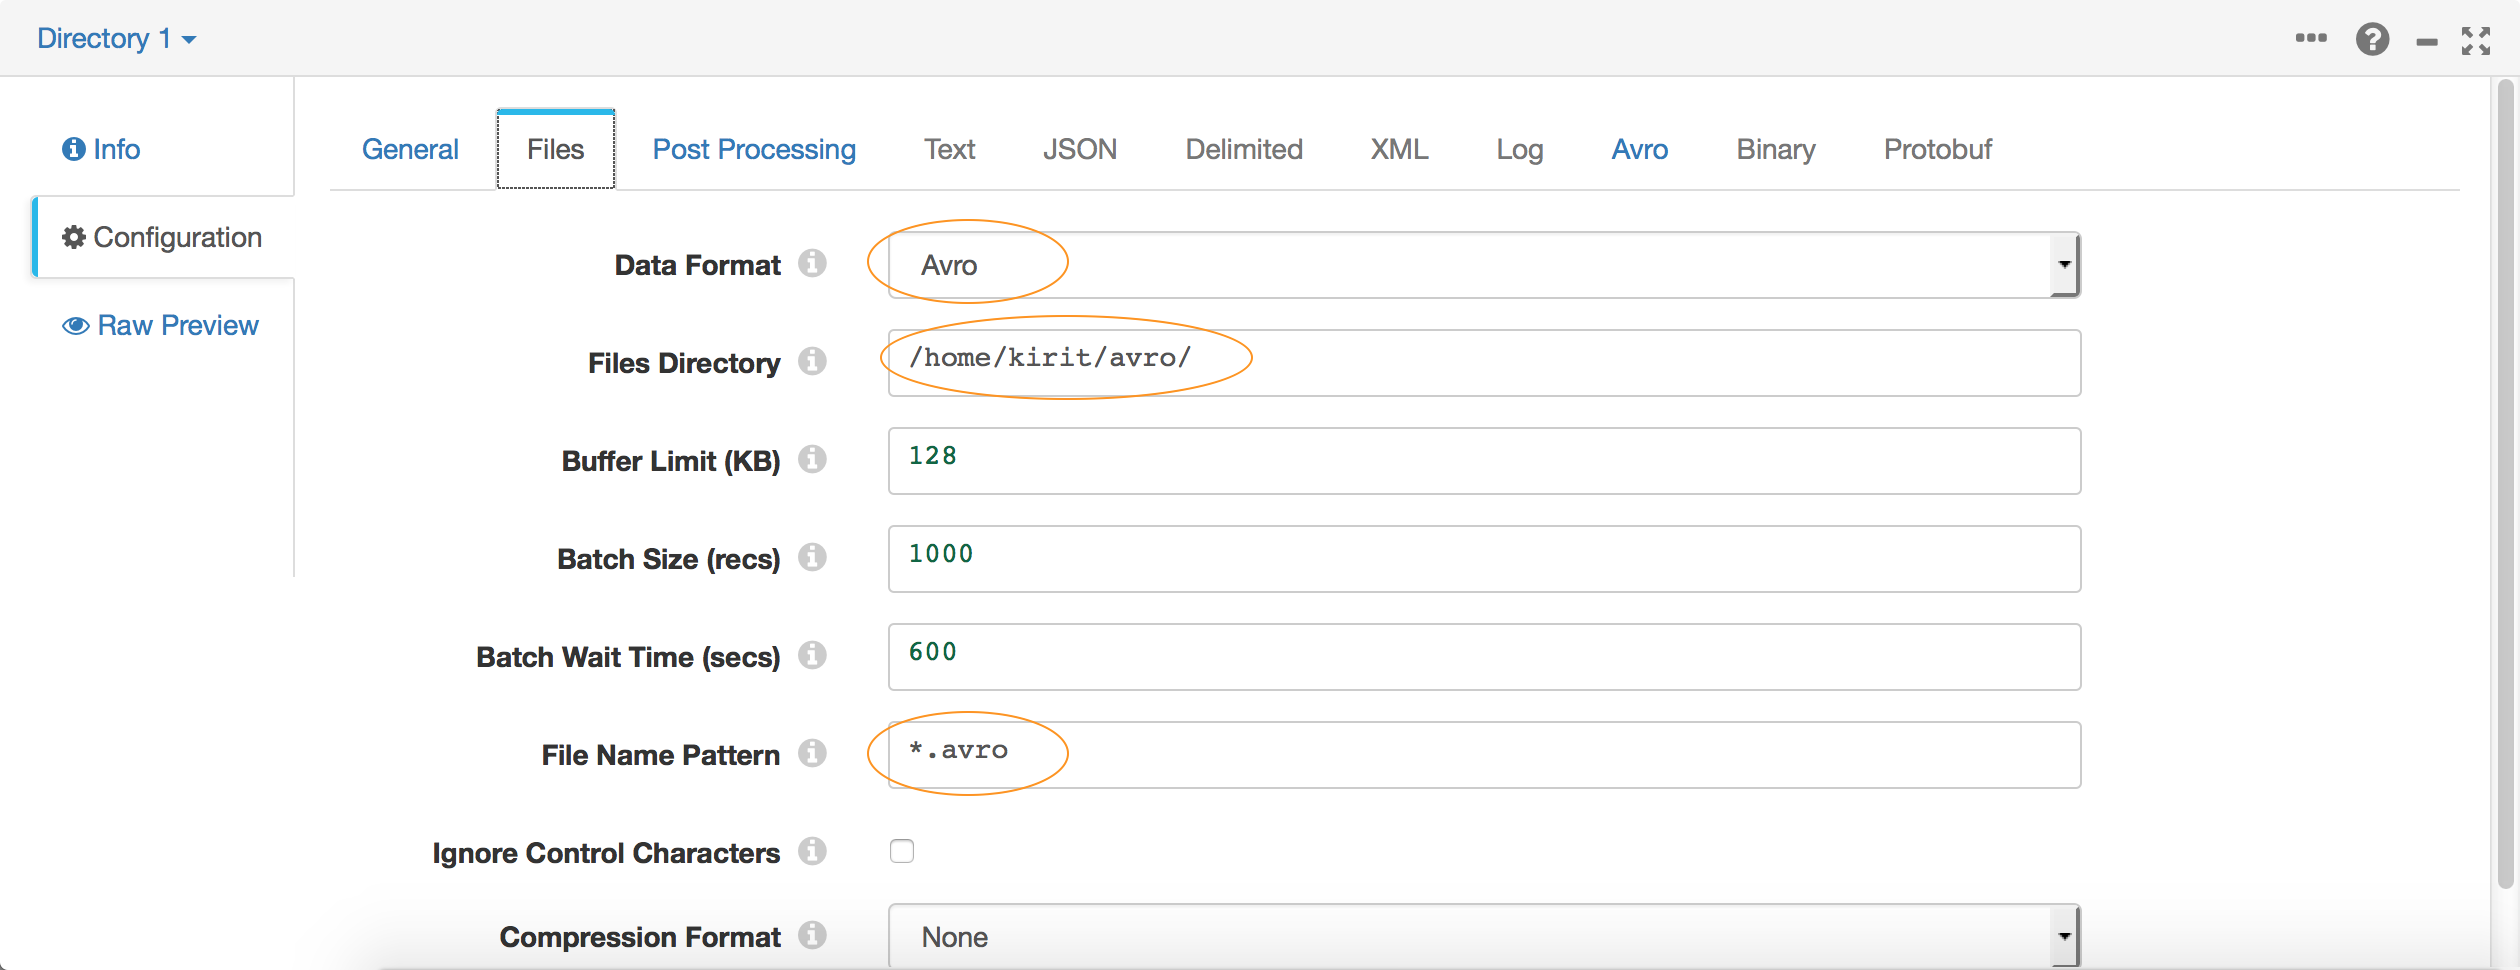
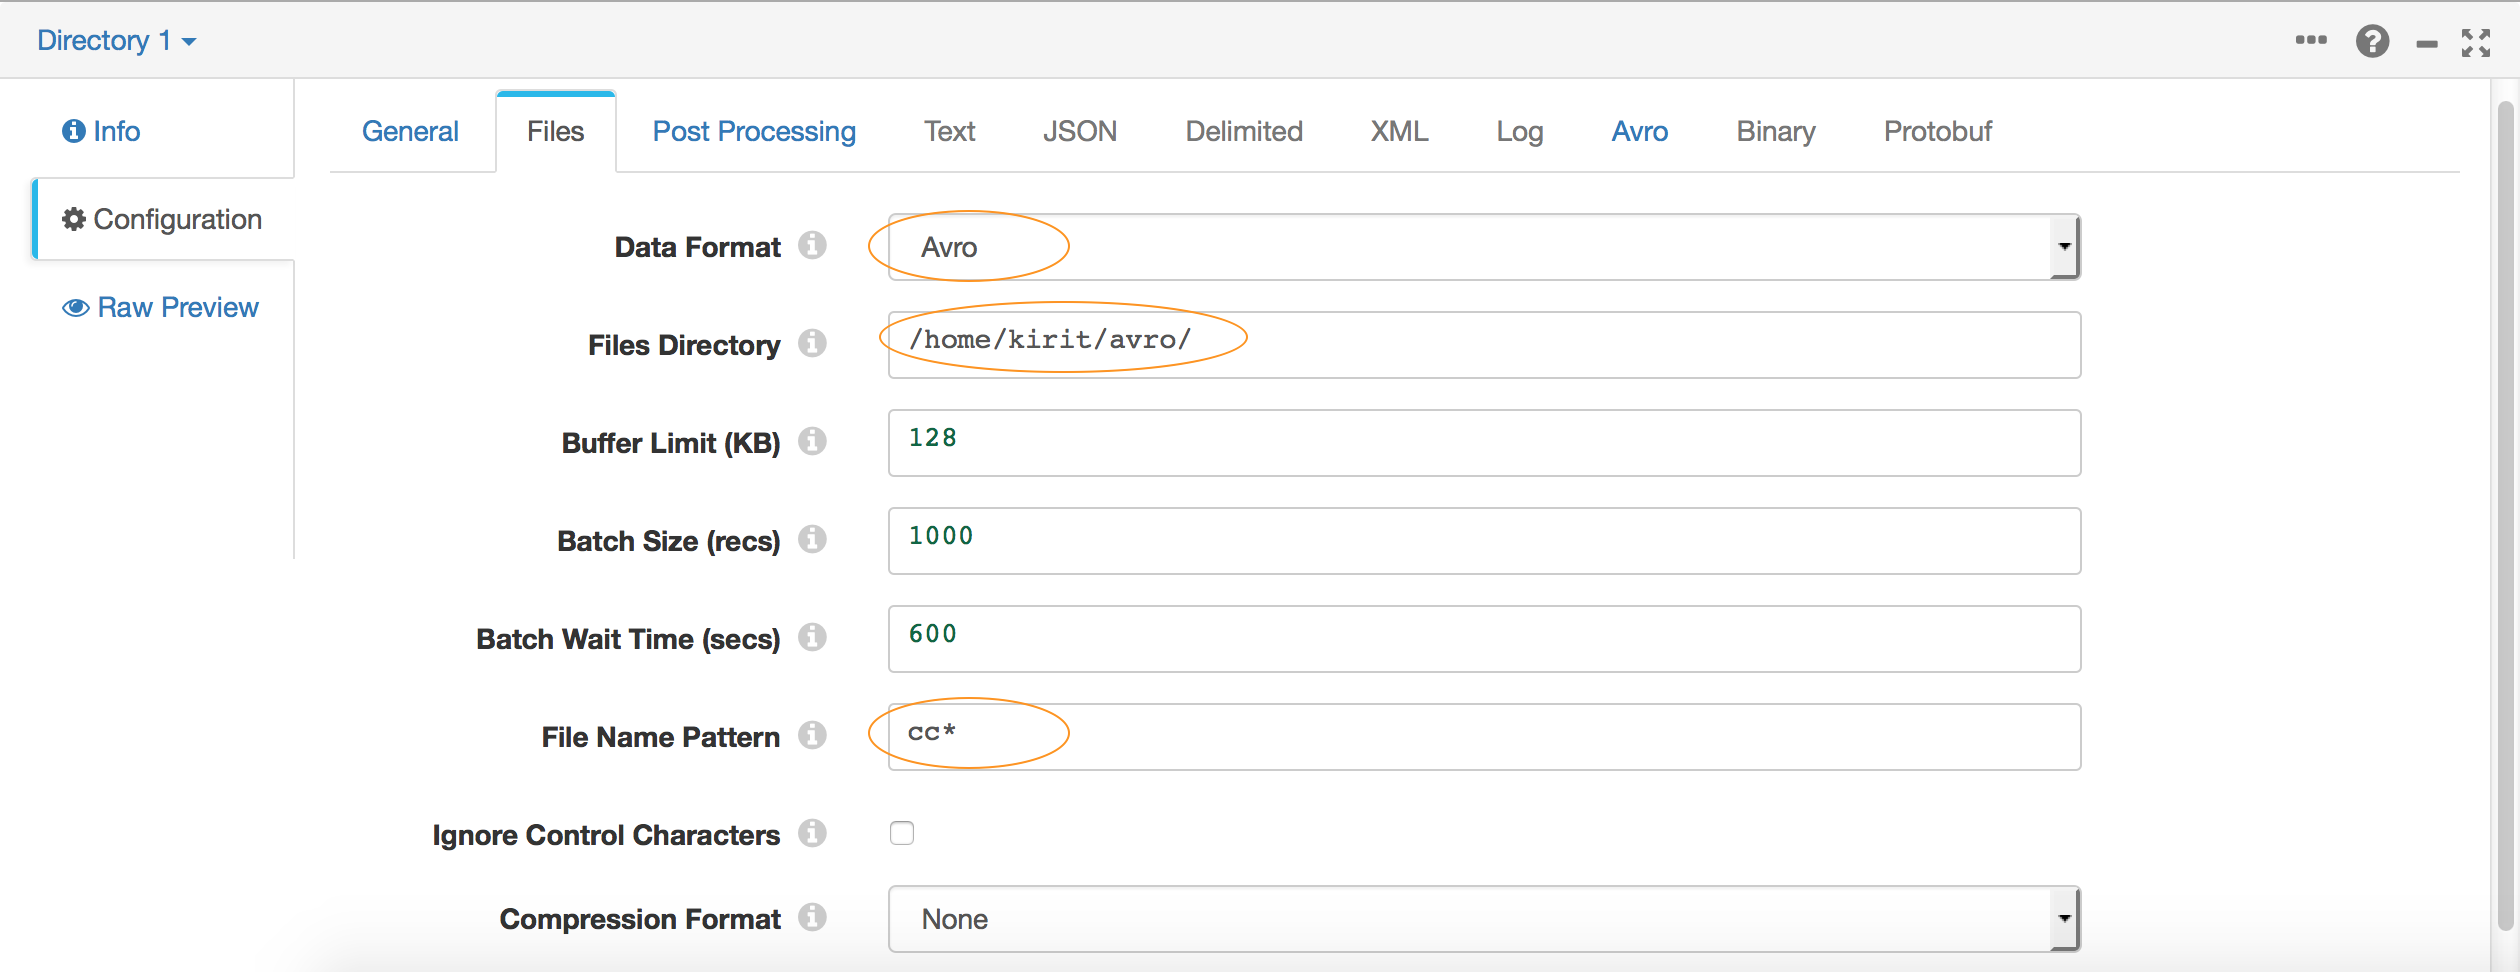
avrò format

diff --git a/tutorial-2/directory_to_kafkaproducer.md b/tutorial-2/directory_to_kafkaproducer.md
@@ -17,8 +17,8 @@
 
  * **Data Format** - Avro
  * **Files Directory** - the absolute file path to the directory containing the sample .avro files
- * **File Name Pattern** - `*.avro`
- *this will pick up all .avro files in this folder, you can use any wildcard to narrow down your selection*
+ * **File Name Pattern** - `cc*`
+ *the ccdata file in the samples directory is a bzip2 compressed avro file, the data collector will automatically detect and decrypt it on the fly*
  * **Files Compression** - None
 
 
